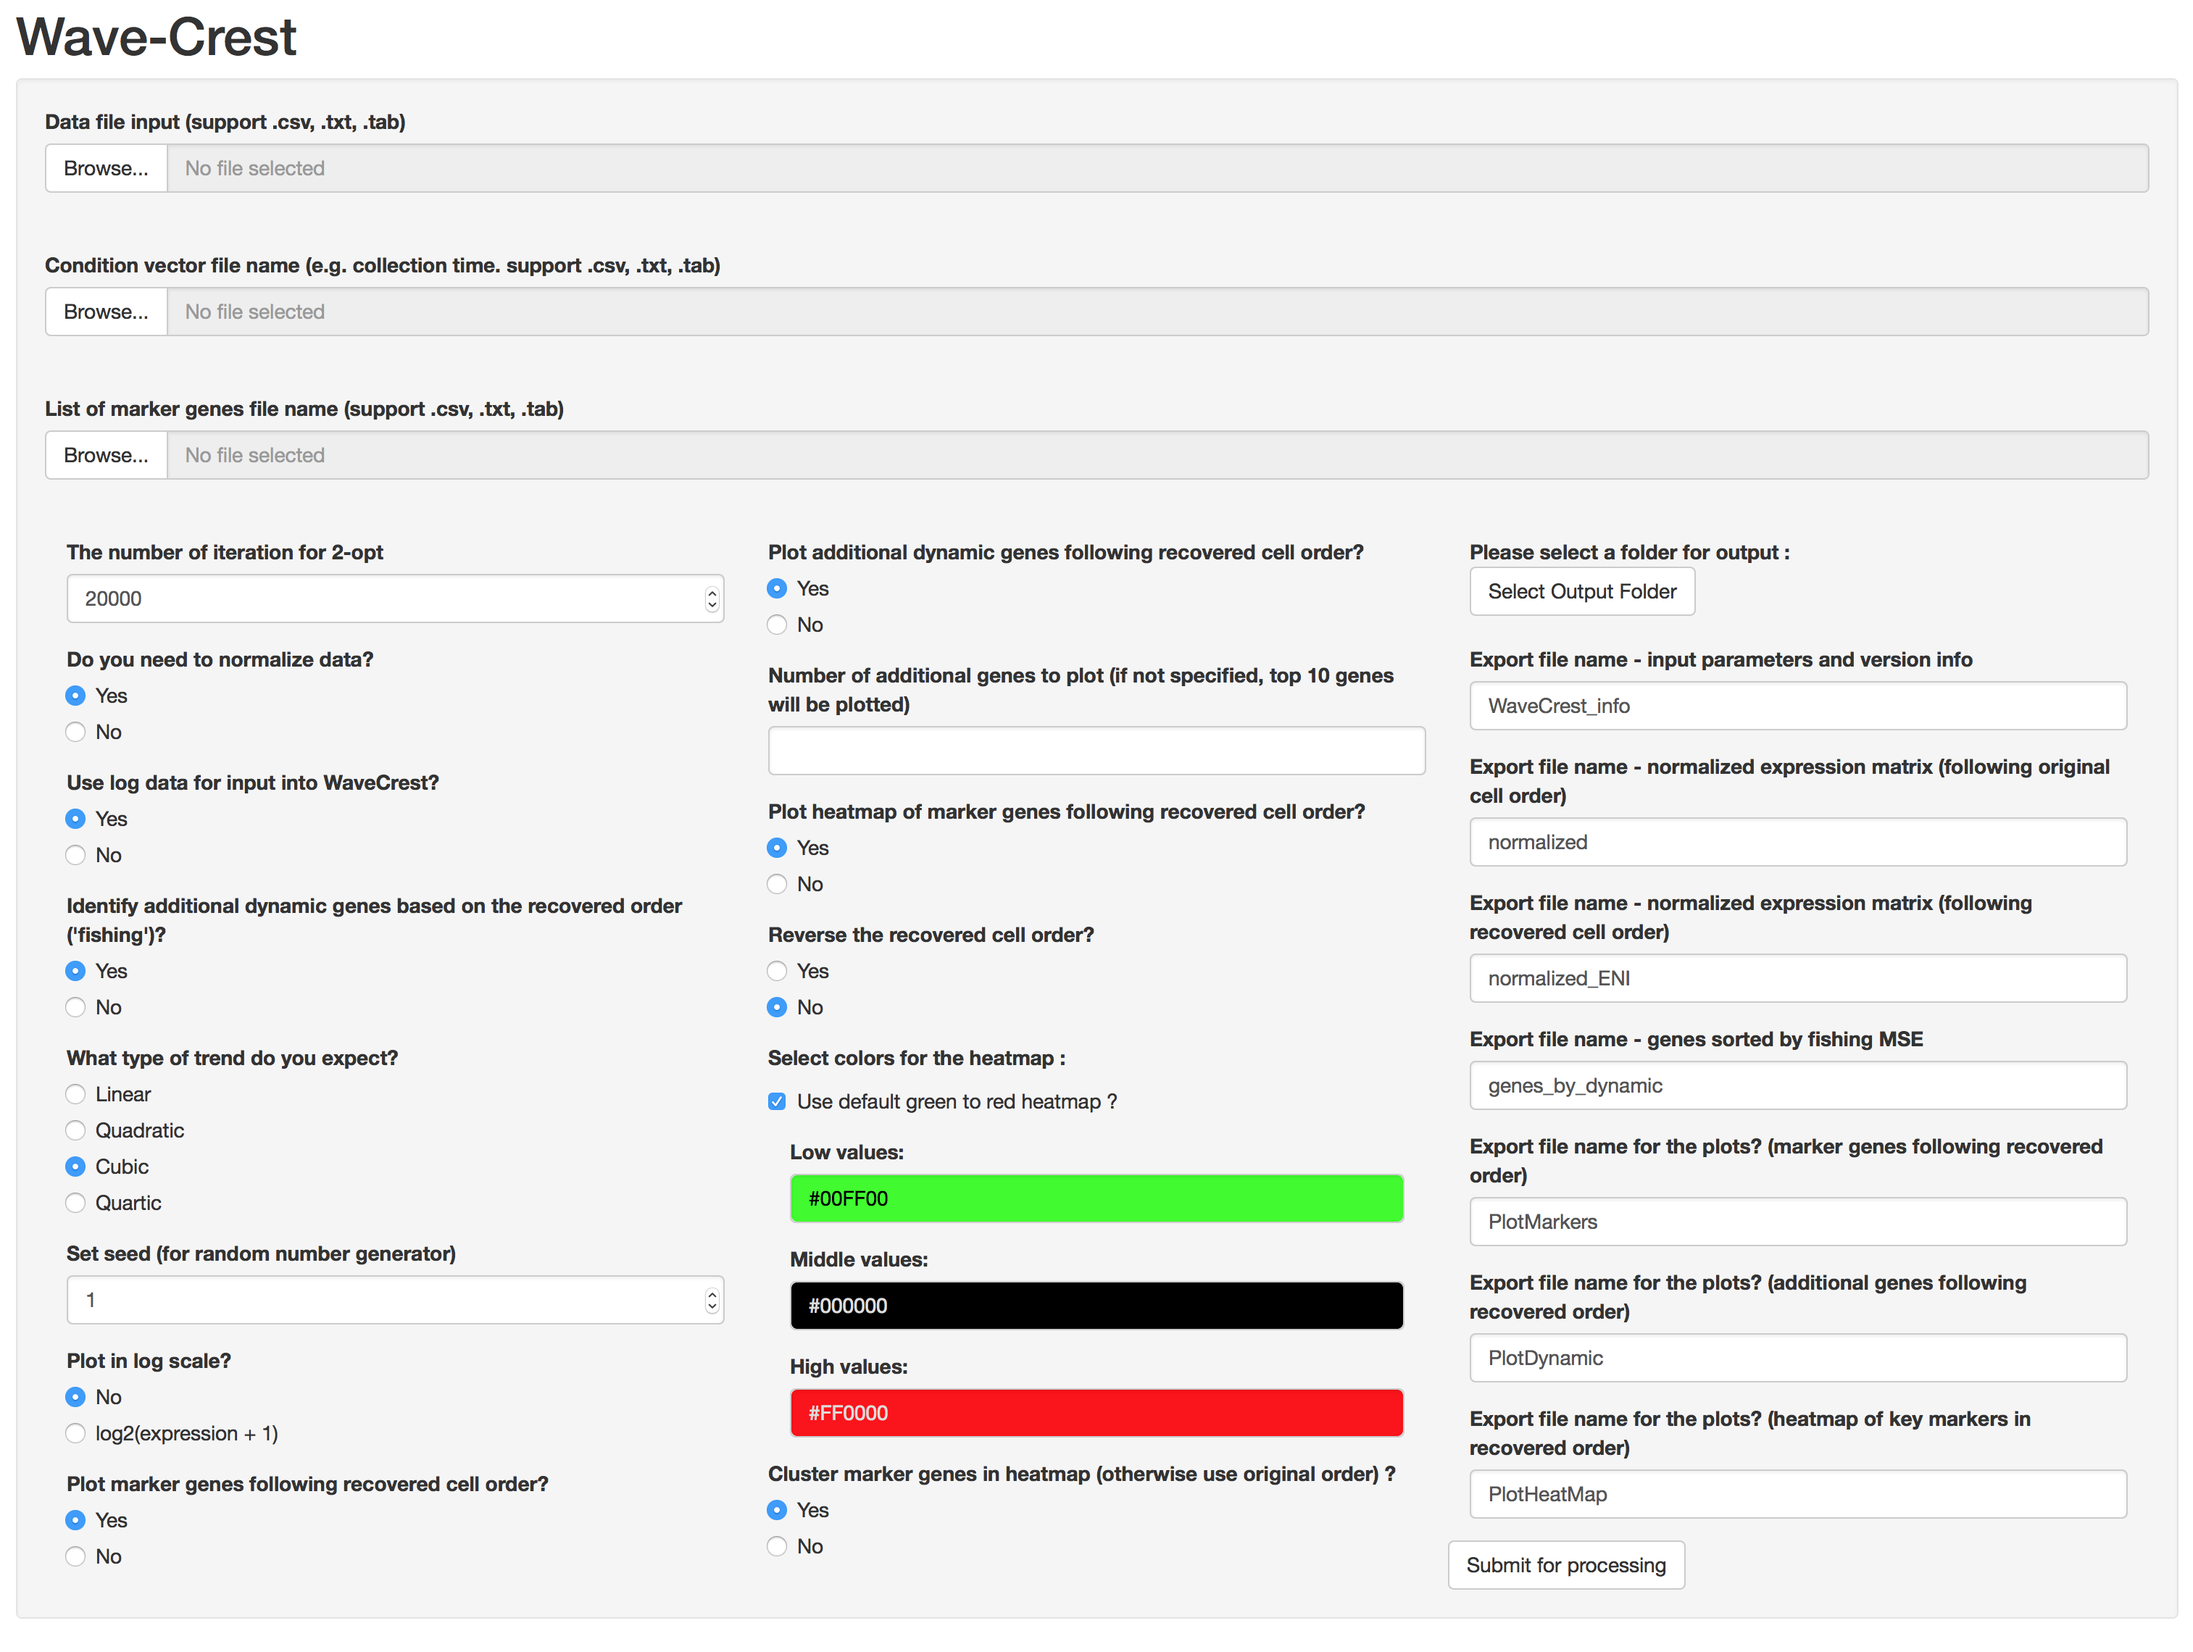
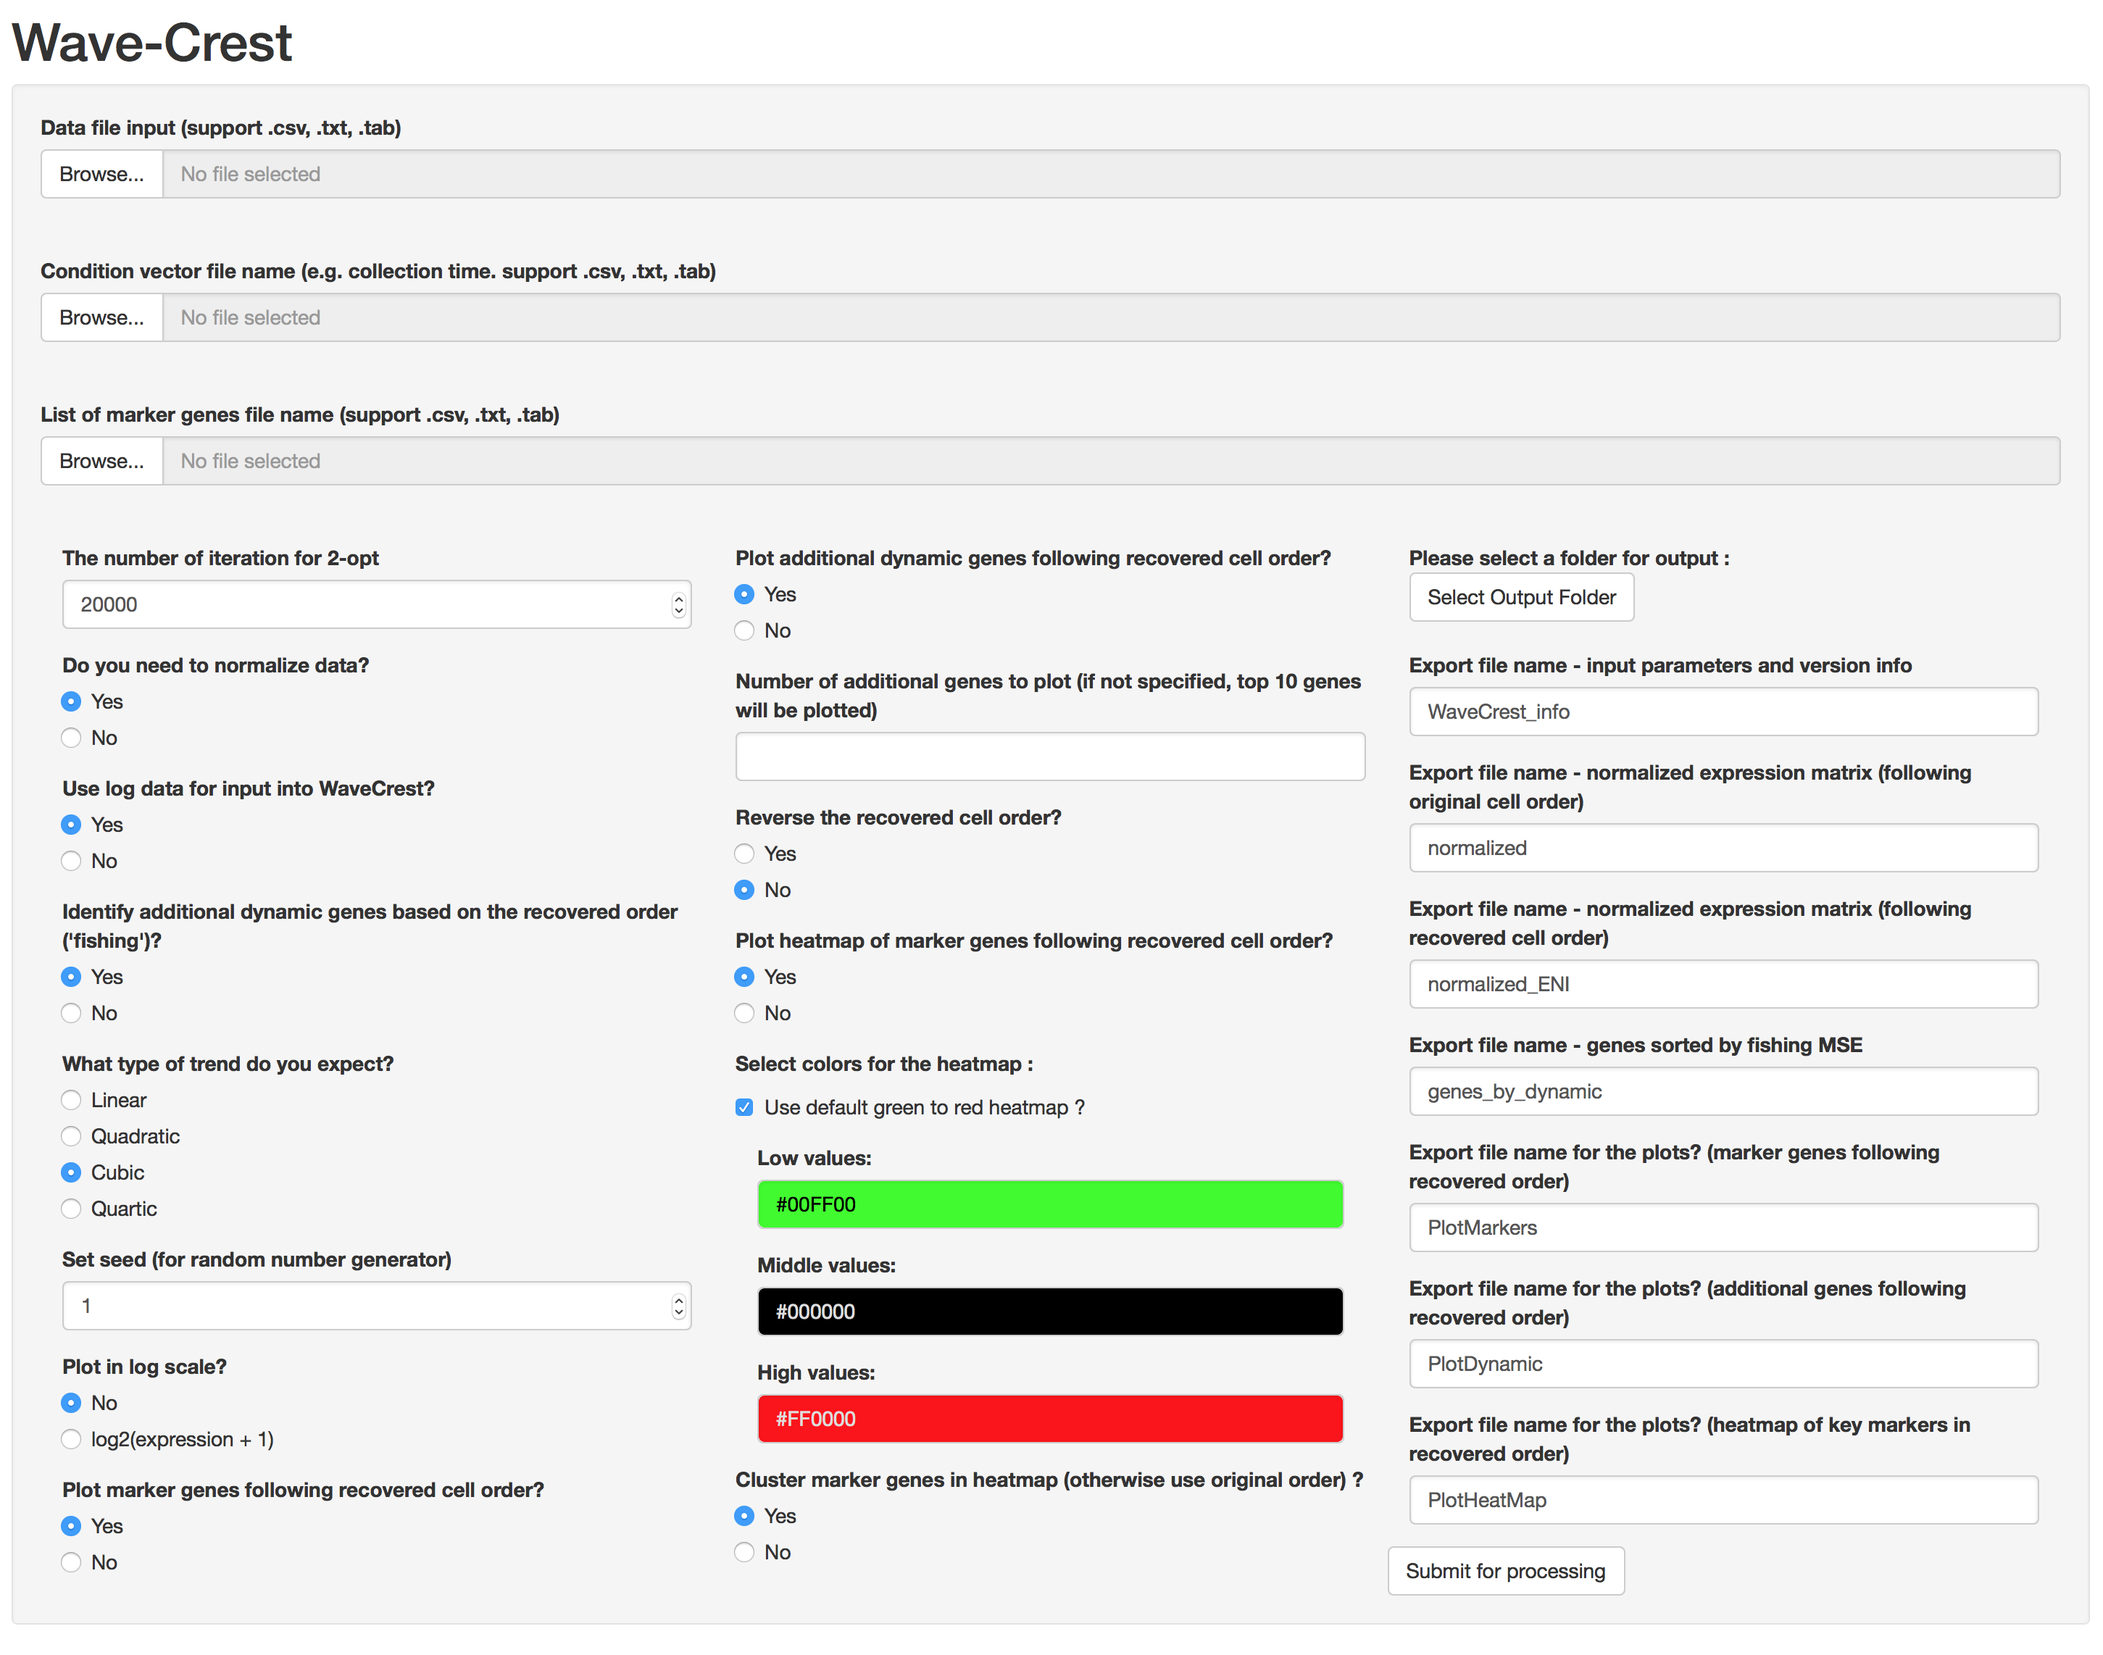
update screenshort and readme for cell order flip

diff --git a/README.md b/README.md
@@ -95,7 +95,7 @@ If specified, the WaveCrest GUI will further detect additional genes with dynami
 
 - Number of additional genes to plot: Number of additional dynamic genes to plot when the previous option is "Yes". If it is not specified, the top 10 genes will be included in the output plots.
 
-- Reverse the recovered cell order: The starting point for WaveCrest is random. Instead of rerunning with another seed, if Yes, this option will just reverse the recovered order.
+- Reverse the recovered cell order: The starting point for WaveCrest is random. Instead of rerunning with another seed, if Yes, this option will just reverse the recovered order. Just make sure to reuse the original seed number!
 
 - Plot heatmap of marker genes following the recovered cell order?: If Yes, then a heatmap will be generate containing the genes from the Marker list with columns ordered according to the recovered cell order.
 - Colors for heatmap: If the box is checked then the default geen red colors will be used, otherwise uncheck this box and select 3 new colors to represent low, middle, and high expression in the heatmap.
